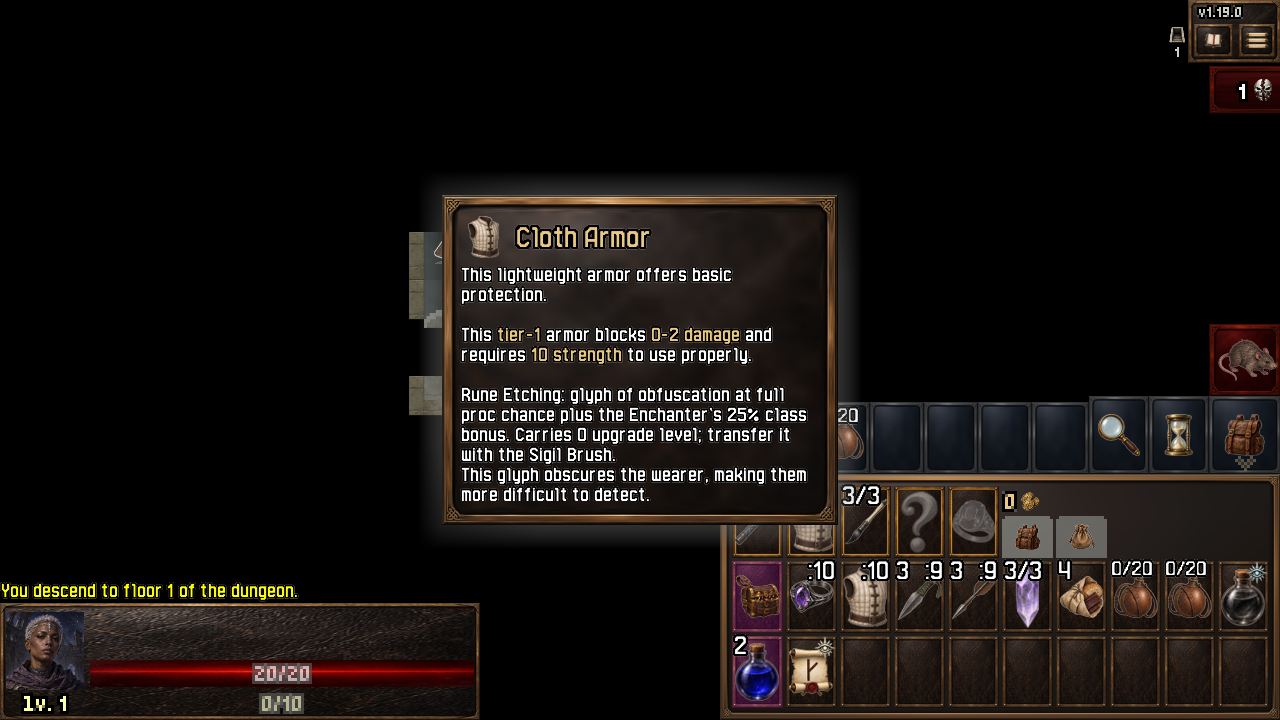
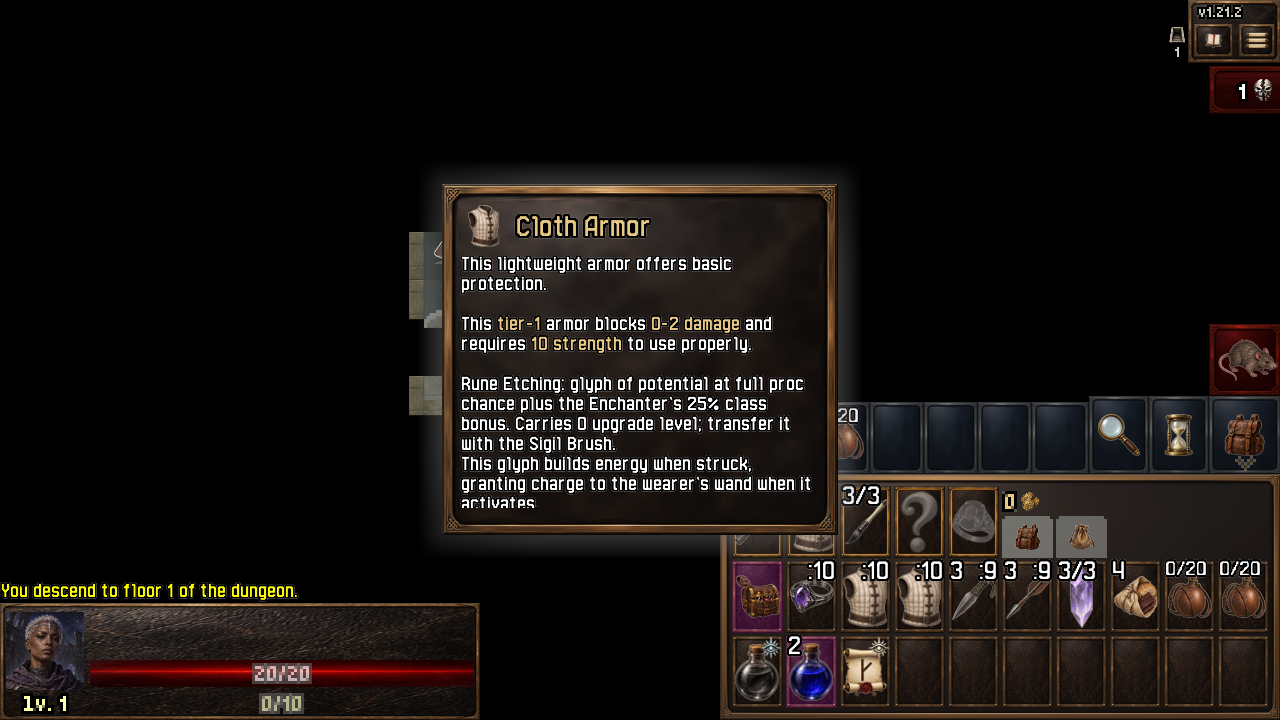
Keep independent weapon and armor Rune Etchings with save migration

diff --git a/core/src/test/java/com/shatteredpixel/shatteredpixeldungeon/acceptance/SmokeRun.java b/core/src/test/java/com/shatteredpixel/shatteredpixeldungeon/acceptance/SmokeRun.java
@@ -117,43 +117,55 @@ public class SmokeRun {
     private static void armorEtchingScenario(Hero h,Weapon weapon){
         if(h.sprite==null)h.sprite=new HeroSprite();
         Armor original=h.belongings.armor;
-        ClothArmor armor=new ClothArmor();armor.identify();h.belongings.armor=armor;
-        RuneEtching rune=weapon.runeEtching;
-        int weaponLevel=weapon.level(),charges=h.belongings.getItem(SigilBrush.class).charges();
-        Weapon.Enchantment enchant=rune.floorEnchant;Armor.Glyph glyph=rune.floorGlyph;
-        check(!RuneEtching.etch(h,null)&&!RuneEtching.canEtch(h,new ClothArmor())&&!RuneEtching.canEtch(h,new com.shatteredpixel.shatteredpixeldungeon.items.weapon.missiles.ThrowingKnife()),"37: cancelled, unworn and ranged Etch targets rejected");
-        check(RuneEtching.etch(h,armor)&&weapon.runeEtching==null&&weapon.level()==weaponLevel-rune.level()&&armor.level()==rune.level(),"37: weapon-to-armor moves one rune and its upgrade");
-        check(!RuneEtching.etch(h,armor)&&rune.floorEnchant==enchant&&rune.floorGlyph==glyph,"37: same carrier rejected and transfers never reroll");
-        weapon.curseInfusionBonus=armor.curseInfusionBonus=true;
-        for(int i=0;i<3;i++)check(RuneEtching.etch(h,weapon)&&RuneEtching.etch(h,armor)&&weapon.trueLevel()==weaponLevel-1&&armor.trueLevel()==1,"37: transfers never convert Curse Infusion bonus into real upgrades");
-        weapon.curseInfusionBonus=armor.curseInfusionBonus=false;
-        checkRuneDescription(armor);
+        RuneEtching weaponRune=weapon.runeEtching;
+        int weaponLevel=weapon.trueLevel(),charges=h.belongings.getItem(SigilBrush.class).charges();
+        Weapon.Enchantment enchant=weaponRune.floorEnchant;
+        original.runeEtching=null;RuneEtching.ensurePair(h);
+        RuneEtching rune=original.runeEtching;
+        check(rune!=null&&rune!=weaponRune&&rune.level()==0&&weapon.trueLevel()==weaponLevel&&weaponRune.floorEnchant==enchant,
+                "37: legacy migration preserves paid weapon rune and adds unupgraded armor counterpart");
+        original.collect();ClothArmor armor=new ClothArmor();armor.identify();h.belongings.armor=armor;
+        Armor.Glyph glyph=rune.floorGlyph;
+        check(!RuneEtching.etch(h,null)&&!RuneEtching.canEtch(h,new ClothArmor())
+                &&!RuneEtching.canEtch(h,new com.shatteredpixel.shatteredpixeldungeon.items.weapon.missiles.ThrowingKnife()),
+                "37: cancelled, unworn and ranged Etch targets rejected");
+        check(RuneEtching.etch(h,armor)&&armor.runeEtching==rune&&original.runeEtching==null
+                &&weapon.runeEtching==weaponRune&&weapon.trueLevel()==weaponLevel,"37: concurrent independent runes");
+        check(!RuneEtching.etch(h,armor)&&rune.floorGlyph==glyph,"37: same carrier rejected without reroll");
+        armor.upgrade();armor.upgrade();check(rune.level()==1&&armor.trueLevel()==2,"37: banks one paid armor upgrade");
+        armor.collect();weapon.curseInfusionBonus=armor.curseInfusionBonus=original.curseInfusionBonus=true;
+        for(int i=0;i<3;i++){
+            h.belongings.armor=original;check(RuneEtching.etch(h,original),"37: armor transfer");
+            h.belongings.armor=armor;check(RuneEtching.etch(h,armor)&&armor.trueLevel()==2&&original.trueLevel()==0
+                    &&weapon.trueLevel()==weaponLevel&&weapon.runeEtching==weaponRune&&rune.floorGlyph==glyph,
+                    "37: separate upgrades/effects conserve across transfers and Curse Infusion");
+        }
+        weapon.curseInfusionBonus=armor.curseInfusionBonus=original.curseInfusionBonus=false;
+        checkRuneDescription(armor);checkRuneDescription(weapon);
         armor.inscribe(new com.shatteredpixel.shatteredpixeldungeon.items.armor.glyphs.Obfuscation());
         armor.inscribed=new com.shatteredpixel.shatteredpixeldungeon.items.armor.glyphs.Viscosity();armor.inscriptionTurns=20;
         rune.floorGlyph=new com.shatteredpixel.shatteredpixeldungeon.items.armor.glyphs.Swiftness();
-        check(armor.hasGlyph(rune.floorGlyph.getClass(),h)&&armor.hasGlyph(armor.glyph.getClass(),h)&&armor.hasGlyph(armor.inscribed.getClass(),h),"37: etched passive, permanent glyph and temporary inscription coexist");
-        Buff.affect(h,MagicImmune.class);check(!armor.hasGlyph(rune.floorGlyph.getClass(),h),"37: magic immunity suppresses etched passive");Buff.detach(h,MagicImmune.class);
+        check(armor.hasGlyph(rune.floorGlyph.getClass(),h)&&armor.hasGlyph(armor.glyph.getClass(),h)&&armor.hasGlyph(armor.inscribed.getClass(),h),"37: three glyph layers coexist");
+        Buff.affect(h,MagicImmune.class);check(!armor.hasGlyph(rune.floorGlyph.getClass(),h),"37: magic immunity");Buff.detach(h,MagicImmune.class);
         int depth=Dungeon.depth;Dungeon.depth=depth+1;EnchanterMagic.state().arrive();
-        check(Arrays.asList(Armor.Glyph.common).contains(rune.floorGlyph.getClass())&&armor.glyph instanceof com.shatteredpixel.shatteredpixeldungeon.items.armor.glyphs.Obfuscation&&armor.inscribed!=null&&EnchanterMagic.state().choices(true).contains(rune.floorGlyph.getClass()),"37: floor glyph rerolls independently, knowledge persists, other slots remain");
-        Bundle saved=new Bundle();saved.put("armor",armor);Armor restored=(Armor)saved.get("armor");
-        check(restored.runeEtching!=null&&restored.level()==armor.level()&&restored.runeEtching.level()==rune.level()&&restored.runeEtching.activeEffect()==rune.activeEffect()&&restored.runeEtching.floorEnchant.getClass()==rune.floorEnchant.getClass()&&restored.inscribed!=null,"37: armor rune, both floor effects, upgrade and inscription survive save/load");
-        Bundle oldSave=new Bundle();oldSave.put("floor_enchant",enchant);RuneEtching migrated=new RuneEtching();migrated.restoreFromBundle(oldSave);
-        check(migrated.floorEnchant.getClass()==enchant.getClass()&&migrated.floorGlyph!=null&&migrated.activeEffect()==enchant.getClass(),"37: legacy weapon rune acquires glyph without replacing existing enchantment");
-        // The crown must transfer ownership, or disposing the old armor recovers a duplicate rune.
+        check(Arrays.asList(Armor.Glyph.common).contains(rune.floorGlyph.getClass())
+                &&Arrays.asList(RuneEtching.FLOOR_ENCHANTS).contains(weaponRune.floorEnchant.getClass())
+                &&armor.inscribed!=null&&EnchanterMagic.state().choices(true).contains(rune.activeEffect())
+                &&EnchanterMagic.state().choices(false).contains(weaponRune.activeEffect()),"37: floor rolls preserve both knowledge catalogs");
+        Bundle saved=new Bundle();saved.put("armor",armor);saved.put("weapon",weapon);
+        Armor restored=(Armor)saved.get("armor");Weapon restoredWeapon=(Weapon)saved.get("weapon");
+        check(restored.runeEtching!=null&&restored.level()==armor.level()&&restored.runeEtching.level()==1
+                &&restored.runeEtching.armorMode()&&restoredWeapon.runeEtching!=null&&!restoredWeapon.runeEtching.armorMode()
+                &&restoredWeapon.trueLevel()==weaponLevel&&restored.inscribed!=null,"37: dual-rune save/load");
         ClassArmor crown=ClassArmor.upgrade(h,armor);h.belongings.armor=crown;
-        check(crown.runeEtching==rune&&armor.runeEtching==null&&crown.level()==restored.level(),"37: class armor conversion retains one rune and exact level");
-        check(RuneEtching.etch(h,weapon)&&weapon.level()==weaponLevel&&crown.level()==0,"37: armor-to-weapon conserves upgrade");
-        // A fresh rune banks the first armor upgrade, but never a second one.
-        rune.level(0);weapon.level(weaponLevel-1);h.belongings.armor=armor;armor.level(0);armor.inscribe(null);armor.inscribed=null;
-        check(RuneEtching.etch(h,armor),"37: fresh armor attachment");armor.upgrade();armor.upgrade();
-        check(rune.level()==1&&armor.level()==2,"37: armor banks at most one upgrade");
-        armor.doUnequip(h,true);check(armor.doEquip(h)&&armor.runeEtching==rune,"37: unequip and re-equip retain attachment");
-        armor.doUnequip(h,true);armor.detachAll(h.belongings.backpack);
-        check(armor.runeEtching==null&&armor.level()==1&&h.belongings.getItem(RuneEtching.class)==rune,"37: dropped armor recovers rune and removes only carried upgrade");
-        h.belongings.armor=original;check(RuneEtching.etch(h,weapon)&&weapon.level()==weaponLevel,"37: reattach recovered armor rune");
+        check(crown.runeEtching==rune&&armor.runeEtching==null&&crown.level()==restored.level(),"37: crown rune ownership");
+        crown.doUnequip(h,true);crown.detachAll(h.belongings.backpack);
+        check(crown.runeEtching==null&&crown.trueLevel()==1&&RuneEtching.find(h,true)==rune
+                &&weapon.runeEtching==weaponRune&&weapon.trueLevel()==weaponLevel,"37: armor loss recovers only armor rune");
+        h.belongings.armor=original;check(RuneEtching.etch(h,original)&&original.trueLevel()==1,"37: armor recovery reattachment");
         Dungeon.depth=depth;EnchanterMagic.state().arrive();
-        check(h.belongings.getItem(SigilBrush.class).charges()==charges,"37: Etch uses no Brush charges");
-        System.out.println("TEST 37 ARMOR PASS: transfer, single upgrade, passive glyph, independent slots, floor roll, save migration, crown, equip/loss and formatted descriptions");
+        check(h.belongings.getItem(SigilBrush.class).charges()==charges,"37: no Brush charge spent");
+        System.out.println("TEST 37 ARMOR PASS: simultaneous category runes, independent upgrades/transfers/floor effects, migration, crown, loss, descriptions and save/load");
     }
 
     private static void playtestScenario() throws Exception {

diff --git a/core/src/main/java/com/shatteredpixel/shatteredpixeldungeon/items/RuneEtching.java b/core/src/main/java/com/shatteredpixel/shatteredpixeldungeon/items/RuneEtching.java
@@ -11,7 +11,7 @@ import com.shatteredpixel.shatteredpixeldungeon.sprites.ItemSpriteSheet;
 import com.watabou.utils.*;
 import java.util.ArrayList;
 
-/** A single movable rune, including at most one of its carrier's upgrades. */
+/** Independent category-bound runes, each banking at most one paid carrier upgrade. */
 public class RuneEtching extends Item {
     public static boolean equipping;
     public static final Class<?>[] FLOOR_ENCHANTS={Blazing.class,Shocking.class,Chilling.class,Kinetic.class,Lucky.class,Blooming.class};
@@ -19,6 +19,9 @@ public class RuneEtching extends Item {
     public Armor.Glyph floorGlyph;
     private boolean armorMode;
     {unique=true;bones=false;image=ItemSpriteSheet.RUNE_ETCHING;identify();roll();}
+    public RuneEtching() {}
+    public RuneEtching(boolean armor){armorMode=armor;}
+    public boolean armorMode(){return armorMode;}
     public void roll(){
         floorEnchant=(Weapon.Enchantment)Reflection.newInstance(Random.element(FLOOR_ENCHANTS));
         floorGlyph=Armor.Glyph.randomCommon();
@@ -28,8 +31,30 @@ public class RuneEtching extends Item {
     @Override public void doDrop(Hero h){}
     @Override public boolean isUpgradable(){return false;}
     public static RuneEtching find(Hero hero){
-        for(Item item:hero.belongings)if(attached(item)!=null)return attached(item);
-        return hero.belongings.getItem(RuneEtching.class);
+        RuneEtching weapon=find(hero,false);return weapon!=null?weapon:find(hero,true);
+    }
+    public static RuneEtching find(Hero hero,boolean armor){
+        for(Item item:hero.belongings){
+            RuneEtching rune=attached(item);
+            if(rune!=null){
+                // The carrier is authoritative for legacy saves whose category was implicit.
+                rune.armorMode=item instanceof Armor;
+                if(rune.armorMode==armor)return rune;
+            }
+        }
+        for(Item item:hero.belongings)if(item instanceof RuneEtching
+                && ((RuneEtching)item).armorMode==armor)return (RuneEtching)item;
+        return null;
+    }
+    public static void ensurePair(Hero hero){
+        if(hero.heroClass!=com.shatteredpixel.shatteredpixeldungeon.actors.hero.HeroClass.ENCHANTER)return;
+        for(boolean armor:new boolean[]{false,true})if(find(hero,armor)==null){
+            RuneEtching rune=new RuneEtching(armor);
+            Item carrier=armor?hero.belongings.armor:hero.belongings.weapon;
+            if(carrier instanceof Armor && attached(carrier)==null)((Armor)carrier).runeEtching=rune;
+            else if(carrier instanceof MeleeWeapon && attached(carrier)==null)((Weapon)carrier).runeEtching=rune;
+            else if(!rune.collect(hero.belongings.backpack))hero.belongings.backpack.items.add(rune);
+        }
     }
     public static boolean etch(Hero hero){
         return etch(hero,hero.belongings.weapon);
@@ -39,11 +64,11 @@ public class RuneEtching extends Item {
     }
     public static boolean canEtch(Hero hero,Item item){
         return item!=null && (item instanceof MeleeWeapon || item instanceof Armor)
-                && item.isEquipped(hero) && attached(item)==null && find(hero)!=null;
+                && item.isEquipped(hero) && attached(item)==null && find(hero,item instanceof Armor)!=null;
     }
     public static boolean etch(Hero hero,Item next){
         if(!canEtch(hero,next))return false;
-        RuneEtching rune=find(hero);
+        RuneEtching rune=find(hero,next instanceof Armor);
         // Learn the old effect before changing the carrier; transfers never reroll.
         com.shatteredpixel.shatteredpixeldungeon.actors.buffs.EnchanterMagic magic=hero.buff(com.shatteredpixel.shatteredpixeldungeon.actors.buffs.EnchanterMagic.class);
         if(magic!=null)magic.choices(rune.armorMode);

diff --git a/desktop/src/main/java/com/shatteredpixel/shatteredpixeldungeon/desktop/DesktopSmokeProbe.java b/desktop/src/main/java/com/shatteredpixel/shatteredpixeldungeon/desktop/DesktopSmokeProbe.java
@@ -553,6 +553,10 @@ final class DesktopSmokeProbe extends ShatteredPixelDungeon {
             closeReviewWindows();GameScene.cancel();
             Playtest.enable();
             Playtest.heroClass(com.shatteredpixel.shatteredpixeldungeon.actors.hero.HeroClass.ENCHANTER);
+            com.shatteredpixel.shatteredpixeldungeon.items.armor.Armor oldArmor=Dungeon.hero.belongings.armor;
+            oldArmor.collect();
+            Dungeon.hero.belongings.armor=new com.shatteredpixel.shatteredpixeldungeon.items.armor.ClothArmor();
+            Dungeon.hero.belongings.armor.identify();
             Dungeon.hero.belongings.getItem(com.shatteredpixel.shatteredpixeldungeon.items.SigilBrush.class).execute(Dungeon.hero,"ETCH");
         }else if(frames==510){
             if(Boolean.getBoolean("grimhollow.interfacePortrait"))interfaceBounds();
@@ -577,13 +581,13 @@ final class DesktopSmokeProbe extends ShatteredPixelDungeon {
                 }
             if(!clicked)throw new AssertionError("37: armor slot missing from Etch picker");
         }else if(frames==540){
-            if(Dungeon.hero.belongings.armor.runeEtching==null)throw new AssertionError("37: Etch picker did not attach armor rune");
+            if(Dungeon.hero.belongings.armor.runeEtching==null || ((com.shatteredpixel.shatteredpixeldungeon.items.weapon.Weapon)Dungeon.hero.belongings.weapon).runeEtching==null || Dungeon.hero.belongings.armor.runeEtching==((com.shatteredpixel.shatteredpixeldungeon.items.weapon.Weapon)Dungeon.hero.belongings.weapon).runeEtching)throw new AssertionError("37: Etch picker did not attach armor rune");
             String text=Dungeon.hero.belongings.armor.info();
             if(!text.contains("Rune Etching:")||!text.contains("25%")||text.contains("%1$s")||text.contains("%2$d"))throw new AssertionError("37: rendered armor description placeholders");
             GameScene.show(new com.shatteredpixel.shatteredpixeldungeon.windows.WndInfoItem(Dungeon.hero.belongings.armor));
         }else if(frames==570){
             interfaceBounds();capture("polish-armor-etch-description");
-            System.out.println("TEST 37 UI PASS: actual Etch selector accepts armor, rejects current carrier, attaches glyph, and renders resolved description; failures=0");
+            System.out.println("TEST 37 UI PASS: actual Etch selector accepts armor, rejects current carrier, retains independent weapon rune, attaches armor glyph, and renders resolved description; failures=0");
             closeReviewWindows();
         }else if(frames==590){
             Object menu=RecoveryChecks.field(Game.scene(),"menu");

diff --git a/core/src/main/java/com/shatteredpixel/shatteredpixeldungeon/actors/buffs/EnchanterMagic.java b/core/src/main/java/com/shatteredpixel/shatteredpixeldungeon/actors/buffs/EnchanterMagic.java
@@ -47,8 +47,10 @@ public class EnchanterMagic extends Buff {
     private void rememberAvailable(){
         for(Class<?> type:Statistics.itemTypesDiscovered)remember(type);
         for(Item item:Dungeon.hero.belongings)learn(item);
-        RuneEtching etching=RuneEtching.find(Dungeon.hero);
-        if(etching!=null)remember(etching.activeEffect());
+        for(boolean armor:new boolean[]{false,true}){
+            RuneEtching etching=RuneEtching.find(Dungeon.hero,armor);
+            if(etching!=null)remember(etching.activeEffect());
+        }
     }
     public java.util.List<Class<?>> choices(boolean armor){
         rememberAvailable();
@@ -77,11 +79,12 @@ public class EnchanterMagic extends Buff {
         return result;
     }
     public void arrive(){
+        RuneEtching.ensurePair(Dungeon.hero);
         int floor=Dungeon.depth+100*Dungeon.branch;if(lastFloor==floor)return;
         boolean descending=lastFloor!=-1&&floor>lastFloor;lastFloor=floor;lastPos=Dungeon.hero.pos;stationary=0;
         Hero h=Dungeon.hero;
         rememberAvailable();
-        RuneEtching etching=RuneEtching.find(h);if(etching!=null){etching.roll();remember(etching.activeEffect());}
+        for(boolean armor:new boolean[]{false,true}){RuneEtching etching=RuneEtching.find(h,armor);if(etching!=null){etching.roll();remember(etching.activeEffect());}}
         boolean firstVisit=floors.add(floor);
         // Discoveries persist. Returning up/down the same stairs grants no extra knowledge.
         if(firstVisit){

diff --git a/core/src/main/java/com/shatteredpixel/shatteredpixeldungeon/ui/changelist/GrimhollowChanges.java b/core/src/main/java/com/shatteredpixel/shatteredpixeldungeon/ui/changelist/GrimhollowChanges.java
@@ -20,7 +20,9 @@ public final class GrimhollowChanges {
         release.addButton(new ChangeButton(icon.get(),title,text));
     }
     public static void addAllChanges(ArrayList<ChangeInfo> list) {
-        ChangeInfo r=release(list,"v1.21.1","A patient hunter finds its way back into shadow.");
+        ChangeInfo r=release(list,"v1.21.2","Two runes, working together.");
+        note(r,Icons.TALENT,"Independent Rune Etchings","Enchanters can etch both weapon and armor at the same time. Each rune keeps its own floor-changing effect and paid upgrade, and transfers within its equipment category. Existing saves receive an unupgraded counterpart without losing their current rune.");
+        r=release(list,"v1.21.1","A patient hunter finds its way back into shadow.");
         note(r,Icons.MAGNIFY,"Lurking Horror","The Horror follows reachable escape routes, continues fleeing while visible, and recovers hidden without attacking. It avoids nearby heroes and doorways. Tools and physical encounters expose it, and its lifetime healing remains limited to a quarter of its health.");
         r=release(list,"v1.21.0","Clearer characters and signals.");
         note(r,Icons.JOURNAL,"Visibility and interface fixes","Tall grass now stands behind upper bodies, with foreground blades around feet. The journal stays visible beside its keys and uses a small unread badge. Talent ranks distinguish filled and empty sockets and show available points. Hexcaster retreat stays aligned with its map position.");

diff --git a/core/src/main/java/com/shatteredpixel/shatteredpixeldungeon/actors/hero/HeroClass.java b/core/src/main/java/com/shatteredpixel/shatteredpixeldungeon/actors/hero/HeroClass.java
@@ -175,6 +175,7 @@ public enum HeroClass {
         com.shatteredpixel.shatteredpixeldungeon.actors.buffs.Buff.affect(hero,com.shatteredpixel.shatteredpixeldungeon.actors.buffs.EnchanterMagic.class);
         (hero.belongings.weapon=new com.shatteredpixel.shatteredpixeldungeon.items.weapon.melee.RunedBaton()).identify();
         ((com.shatteredpixel.shatteredpixeldungeon.items.weapon.Weapon)hero.belongings.weapon).runeEtching=new com.shatteredpixel.shatteredpixeldungeon.items.RuneEtching();
+        com.shatteredpixel.shatteredpixeldungeon.items.RuneEtching.ensurePair(hero);
         com.shatteredpixel.shatteredpixeldungeon.items.SigilBrush item=new com.shatteredpixel.shatteredpixeldungeon.items.SigilBrush();
         (hero.belongings.artifact=item).identify();item.activate(hero);
         new Food().collect();new com.shatteredpixel.shatteredpixeldungeon.items.scrolls.exotic.ScrollOfEnchantment().identify();new ScrollOfIdentify().collect();new PotionOfHealing().collect();

diff --git a/README.md b/README.md
@@ -1,6 +1,6 @@
 # Grimhollow
 
-v1.21.1 adds routed Horror flight and concealed mobile recovery after the v1.21.0 positioning/interface fixes. In-game Playtest access remains available for enabled saves; see the instructions below. The agreed playtesting fixes, class changes, remaining seven hero upgrades and equipment-aware character sprites are queued under **Next sprint: playtesting fixes and character presentation** at the end of this document.
+v1.21.2 allows simultaneous independent weapon and armor Rune Etchings, following the Horror and interface fixes. In-game Playtest access remains available for enabled saves; see the instructions below. The agreed playtesting fixes, class changes, remaining seven hero upgrades and equipment-aware character sprites are queued under **Next sprint: playtesting fixes and character presentation** at the end of this document.
 
 v1.20.1 is a **Warrior and Enchanter art proof of concept**: proportioned painted bodies, class-fitted armor, distinct silhouettes and restrained motion with still idles. Faces match the existing selection portraits. Gameplay, world height and animation timings are unchanged; the other seven heroes await review of this pilot. Comparisons, pose sheets and animation previews are in [verification/heroes/pilot](verification/heroes/pilot/). Windows launcher: `desktop/build/windows/1.20.2/Grimhollow/Grimhollow.exe`; Android: `android/build/outputs/apk/debug/android-debug.apk`.
 
@@ -244,7 +244,7 @@ By **Evan Debenham and contributors**: [Shattered Pixel Dungeon project](https:/
 
 ## Next sprint: playtesting fixes and character presentation
 
-Sprint in progress, updated 2026-10-04: components 1–2 delivered in v1.21.0/1.21.1; components 3–7 remain. This incorporates the latest playtesting discussion and supersedes earlier proposals to expose a recovering Horror on ordinary sight, remove the Seer passive, or allow Crystal inventory casting without a talent. In-game Playtest access is already delivered in v1.20.2 and is not a new sprint task.
+Sprint in progress, updated 2026-10-04: components 1–3 delivered in v1.21.0–1.21.2; components 4–7 remain. This incorporates the latest playtesting discussion and supersedes earlier proposals to expose a recovering Horror on ordinary sight, remove the Seer passive, or allow Crystal inventory casting without a talent. In-game Playtest access is already delivered in v1.20.2 and is not a new sprint task.
 
 ### Component 1 - Positioning, grass and notification fixes
 

diff --git a/verification/ACCEPTANCE.md b/verification/ACCEPTANCE.md
@@ -1,3 +1,9 @@
+# Sprint component 3 - v1.21.2
+
+- **TEST 37 ARMOR PASS**: simultaneous weapon/armor runes, independent paid upgrades and category transfers, no rerolls on transfer, floor effects and accumulated knowledge, legacy unupgraded counterpart, crown ownership, carrier loss, resolved descriptions and save/load. Existing weapon transfer checks still pass. **Runs=30 failures=0**; seven JUnit tests pass.
+- Desktop and Android: **BUILD SUCCESSFUL in 2m 3s**. Adapted the existing native Etch fixture to transfer an armor rune from stored armor while retaining the weapon attachment; portrait and landscape both pass **TEST 37 UI PASS ... failures=0** with real input. No new gameplay probe or acceptance document.
+- No paid upgrade is granted by migration; the new counterpart starts at level zero. All prior checks and test-45 abandonment remain unchanged. Physical tablet review remains with the user.
+
 # Sprint component 2 - v1.21.1
 
 - Extended **TEST 60 Horror PASS** in all three class gates: routed dead-end escape, visible flight exclusion, concealed room-entry recovery, hero evasion without attack, physical bump interruption/occupancy, full-reveal exposure, skipped recovery at full health/spent allowance, save/load and the original finite-healing/warning/generation contracts. **Runs=30 failures=0**.

diff --git a/CHANGES.md b/CHANGES.md
@@ -1,3 +1,8 @@
+# Sprint component 3 - v1.21.2
+
+- Enchanter keeps a weapon Rune Etching and an armor Rune Etching simultaneously. Their floor effects, carried paid upgrade and transfers remain independent; category transfers never reroll or copy upgrades.
+- Existing single-rune saves preserve their current rune, effect, gear and paid upgrade, adding an unupgraded counterpart. New Enchanters begin with both attachments. Knowledge, permanent glyphs/enchantments and temporary inscriptions remain intact.
+
 # Sprint component 2 - v1.21.1
 
 - Horror flight follows a reachable escape destination instead of choosing alternating greedy steps. Routes may approach briefly to leave dead ends; occupied cells are blocked.
